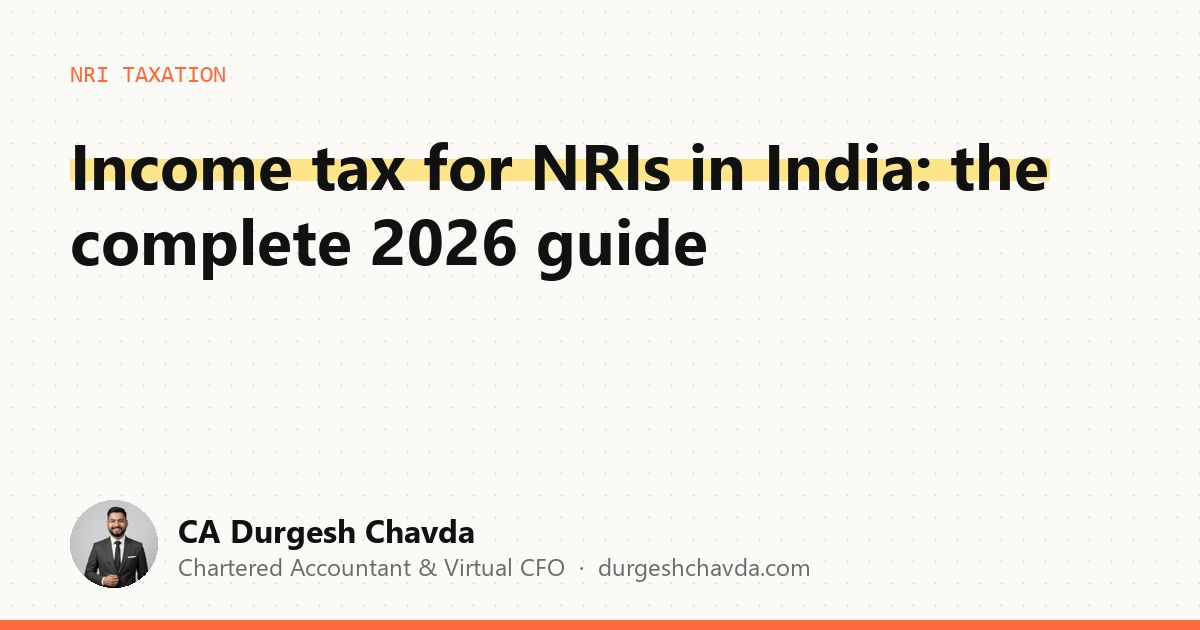
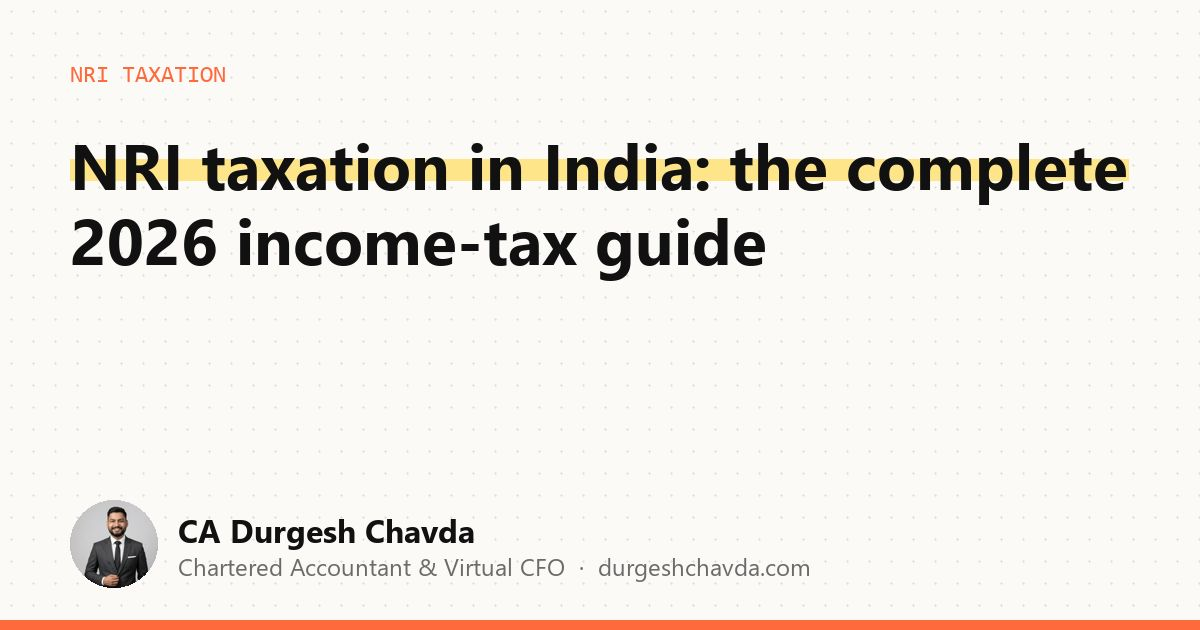
City vCFO pages deepened (month-by-month, signs, scoping); Noida added to NCR page; NRI taxation and 57th GST titles

Changed region(s): [[0.0617, 0.2111, 0.9558, 0.3317], [0.0617, 0.3317, 0.6475, 0.4524]]

diff --git a/virtual-cfo-services-gurgaon/index.html b/virtual-cfo-services-gurgaon/index.html
@@ -3,7 +3,7 @@
 <head>
 <meta charset="UTF-8"/>
 <meta name="viewport" content="width=device-width,initial-scale=1.0"/>
-<title>Virtual CFO Services in Gurgaon & Delhi NCR | Durgesh Chavda</title>
+<title>Virtual CFO Services in Gurgaon, Noida & Delhi NCR</title>
 <meta name="description" content="Virtual CFO services in Gurgaon, Delhi and Noida: monthly MIS, board packs, runway, fundraising, FEMA and GST for startups and subsidiaries of foreign groups."/>
 <meta name="robots" content="index,follow,max-image-preview:large,max-snippet:-1"/>
 <link rel="canonical" href="https://www.durgeshchavda.com/virtual-cfo-services-gurgaon/"/>
@@ -11,17 +11,17 @@
 <meta property="og:type" content="website"/>
 <meta property="og:site_name" content="Durgesh Chavda"/>
 <meta property="og:locale" content="en_IN"/>
-<meta property="og:title" content="Virtual CFO Services in Gurgaon &amp; Delhi NCR | Durgesh Chavda"/>
+<meta property="og:title" content="Virtual CFO Services in Gurgaon, Noida &amp; Delhi NCR"/>
 <meta property="og:description" content="Virtual CFO services in Gurgaon, Delhi and Noida: monthly MIS, board packs, runway, fundraising, FEMA and GST for startups and subsidiaries of foreign groups."/>
 <meta property="og:url" content="https://www.durgeshchavda.com/virtual-cfo-services-gurgaon/"/>
 <meta property="og:image" content="https://www.durgeshchavda.com/assets/og/virtual-cfo-services-gurgaon.jpg"/>
 <meta property="og:image:width" content="1200"/><meta property="og:image:height" content="630"/>
 <meta name="twitter:card" content="summary_large_image"/>
-<meta name="twitter:title" content="Virtual CFO Services in Gurgaon &amp; Delhi NCR | Durgesh Chavda"/>
+<meta name="twitter:title" content="Virtual CFO Services in Gurgaon, Noida &amp; Delhi NCR"/>
 <meta name="twitter:description" content="Virtual CFO services in Gurgaon, Delhi and Noida: monthly MIS, board packs, runway, fundraising, FEMA and GST for startups and subsidiaries of foreign groups."/>
 <meta name="twitter:image" content="https://www.durgeshchavda.com/assets/og/virtual-cfo-services-gurgaon.jpg"/>
 <link rel="alternate" type="application/rss+xml" title="Durgesh Chavda — Insights" href="https://www.durgeshchavda.com/insights/feed.xml"/>
-<!-- lastmod:2026-10-15 -->
+<!-- lastmod:2026-10-23 -->
 
 <meta name="theme-color" content="#fbfaf7"/>
 <link rel="icon" href="/favicon.svg" type="image/svg+xml"/>
@@ -48,7 +48,7 @@
     {
      "@type": "ListItem",
      "position": 2,
-     "name": "Virtual CFO in Gurgaon",
+     "name": "Virtual CFO in Gurgaon & Noida",
      "item": "https://www.durgeshchavda.com/virtual-cfo-services-gurgaon/"
     }
    ]
@@ -56,7 +56,7 @@
   {
    "@type": "Service",
    "@id": "https://www.durgeshchavda.com/virtual-cfo-services-gurgaon/#service",
-   "name": "Virtual CFO services in Gurgaon",
+   "name": "Virtual CFO services in Gurgaon, Noida and Delhi NCR",
    "serviceType": "Virtual CFO",
    "provider": {
     "@id": "https://www.durgeshchavda.com/#business"
@@ -65,11 +65,19 @@
    "areaServed": [
     {
      "@type": "City",
-     "name": "Gurgaon"
+     "name": "Gurugram"
     },
     {
-     "@type": "State",
-     "name": "Haryana"
+     "@type": "City",
+     "name": "Noida"
+    },
+    {
+     "@type": "City",
+     "name": "Greater Noida"
+    },
+    {
+     "@type": "City",
+     "name": "New Delhi"
     }
    ]
   },
@@ -98,6 +106,14 @@
      "acceptedAnswer": {
       "@type": "Answer",
       "text": "Yes — we reconcile returns and input credit for each state registration, which matters for companies operating across Haryana, Delhi and Uttar Pradesh."
+     }
+    },
+    {
+     "@type": "Question",
+     "name": "Do you provide virtual CFO services in Noida?",
+     "acceptedAnswer": {
+      "@type": "Answer",
+      "text": "Yes. We support startups, IT companies and subsidiaries in Noida and Greater Noida — monthly close, MIS, board packs, Uttar Pradesh GST alongside other NCR states, export refunds and FEMA filings — remotely, with visits when needed."
      }
     }
    ]
@@ -138,9 +154,9 @@
 <main id="main">
 <header class="phero dots">
   <div class="wrap">
-    <nav class="crumbs rv" aria-label="Breadcrumb"><a href="/">Home</a> <span>/</span> <span aria-current="page">Virtual CFO in Gurgaon</span></nav>
+    <nav class="crumbs rv" aria-label="Breadcrumb"><a href="/">Home</a> <span>/</span> <span aria-current="page">Virtual CFO in Gurgaon & Noida</span></nav>
     <div class="eyebrow rv" style="margin-top:26px"><svg><use href="#sq-sm"/></svg>Gurgaon</div>
-    <h1 class="rv">Virtual CFO services in Gurgaon &amp; Delhi NCR — <mark>CFO-grade finance, part-time</mark></h1>
+    <h1 class="rv">Virtual CFO services in Gurgaon, Noida &amp; Delhi NCR — <mark>CFO-grade finance, part-time</mark></h1>
     <p class="lead rv">Gurugram&rsquo;s SaaS, D2C, fintech and mobility founders — and the Indian arms of foreign groups across Delhi NCR — use us as their finance team: monthly close, board reporting, fundraising and compliance.</p>
     
     <div class="hero-ctas rv">
@@ -167,6 +183,24 @@
 <ul><li><strong>Multi-state GST:</strong> NCR companies often have registrations in Haryana, Delhi and Uttar Pradesh — we keep each state&rsquo;s returns and input credit reconciled.</li>
 <li><strong>Foreign-parent reporting:</strong> monthly packs mapped to US GAAP or IFRS, transfer pricing and the <a href="/insights/repatriate-profits-from-india/">repatriation</a> questions that come with them.</li></ul>
 <p>Delivery is remote-first — shared books, weekly calls and a monthly review — with visits to Gurgaon for board meetings, audits or investor diligence when needed. Our offices are in Ahmedabad, Mumbai, Bengaluru, Rajkot and Dubai.</p>
+<h2 id="month">A typical month with a virtual CFO</h2>
+<div class="tbl-wrap"><table class="tbl"><tr><th>When</th><th>What happens</th><th>What you get</th></tr>
+<tr><td>Days 1–7</td><td>Books closed, bank and payment-gateway reconciliations, accruals, GST and TDS reconciled</td><td>Clean month-end numbers</td></tr>
+<tr><td>Days 7–10</td><td>MIS pack: P&amp;L against budget, cash and runway, unit economics, receivables ageing</td><td>A one-page view of the business plus the detail</td></tr>
+<tr><td>Days 10–15</td><td>Monthly review call with the founders; decisions on hiring, pricing, spend and collections</td><td>Actions with owners and dates</td></tr>
+<tr><td>Ongoing</td><td>Compliance calendar — GST, TDS, PF, ROC and, for foreign-funded companies, RBI/FEMA filings</td><td>No missed due dates or late fees</td></tr>
+<tr><td>Quarterly</td><td>Board pack, investor update, forecast refresh, advance tax</td><td>Board-ready reporting</td></tr>
+<tr><td>As needed</td><td>Fundraising model and data room, due-diligence questions, audit support</td><td>A finance lead for the big moments</td></tr></table></div>
+<h2 id="signs">Signs a Gurgaon or Noida company needs a virtual CFO</h2>
+<ul><li>The founders can&rsquo;t say what the runway is without a day of spreadsheet work.</li>
+<li>Investors or a foreign parent are asking for monthly reporting you don&rsquo;t yet produce.</li>
+<li>A fundraise, audit or due diligence is coming in the next six months.</li>
+<li>Your accountant files returns on time but nobody owns cash, pricing or budgets.</li>
+<li>You have raised foreign money and aren&rsquo;t sure the FEMA filings are complete.</li></ul>
+<h2 id="engage">How engagements are scoped</h2>
+<p>We agree a fixed monthly scope — which reports, how often we meet, which filings we own — based on your transaction volume, number of entities and whether you report to a foreign parent. Your existing accountant can stay on for bookkeeping; we take the CFO layer. Most companies start with a one-month diagnostic of their books and reporting. Compare options: <a href="/insights/virtual-cfo-vs-full-time-cfo/">virtual CFO vs full-time CFO</a>.</p>
+<h2 id="noida">Noida and Greater Noida</h2>
+<p>Noida&rsquo;s IT and electronics-manufacturing companies, and the Indian subsidiaries based there, have needs of their own: Uttar Pradesh GST registrations alongside Haryana or Delhi, export-of-services refunds for IT and ITeS units, and — for manufacturers — inventory costing, customs and production-linked incentive claims. We cover Noida the same way as Gurugram: remote-first, with visits when needed.</p>
 <form class="enq" data-enq aria-label="Quick enquiry">
 <div class="enq-h">Tell Durgesh what you need</div>
 <p class="enq-s">Takes 30 seconds. It opens WhatsApp or your email app with the message ready — you reply to Durgesh directly.</p>
@@ -177,10 +211,10 @@
 <div class="acts"><button class="btn btn-ink" type="submit"><svg class="icon"><use href="#i-wa"/></svg> Send on WhatsApp</button><button class="btn btn-soft" type="button" data-mail><svg class="icon"><use href="#i-mail"/></svg> Send by email</button></div>
 <p class="note">Nothing is stored on this website. Please don&rsquo;t include confidential documents in the first message.</p>
 </form>
-<h2 id="faq">Frequently asked questions</h2><div class="faq"><details><summary>Do you provide virtual CFO services in Gurgaon?</summary><div class="a">Yes. We work with Gurugram, Delhi and Noida startups and subsidiaries remotely — monthly close, MIS, board packs, fundraising support and compliance — and visit for board meetings, audits or diligence when needed.</div></details><details><summary>How much does a virtual CFO cost compared with a full-time CFO in Gurgaon?</summary><div class="a">A virtual CFO is engaged for a fixed monthly scope, typically a fraction of a full-time CFO's cost; read Virtual CFO vs full-time CFO for how to decide.</div></details><details><summary>Can you handle GST registrations in more than one NCR state?</summary><div class="a">Yes — we reconcile returns and input credit for each state registration, which matters for companies operating across Haryana, Delhi and Uttar Pradesh.</div></details></div>
+<h2 id="faq">Frequently asked questions</h2><div class="faq"><details><summary>Do you provide virtual CFO services in Gurgaon?</summary><div class="a">Yes. We work with Gurugram, Delhi and Noida startups and subsidiaries remotely — monthly close, MIS, board packs, fundraising support and compliance — and visit for board meetings, audits or diligence when needed.</div></details><details><summary>How much does a virtual CFO cost compared with a full-time CFO in Gurgaon?</summary><div class="a">A virtual CFO is engaged for a fixed monthly scope, typically a fraction of a full-time CFO's cost; read Virtual CFO vs full-time CFO for how to decide.</div></details><details><summary>Can you handle GST registrations in more than one NCR state?</summary><div class="a">Yes — we reconcile returns and input credit for each state registration, which matters for companies operating across Haryana, Delhi and Uttar Pradesh.</div></details><details><summary>Do you provide virtual CFO services in Noida?</summary><div class="a">Yes. We support startups, IT companies and subsidiaries in Noida and Greater Noida — monthly close, MIS, board packs, Uttar Pradesh GST alongside other NCR states, export refunds and FEMA filings — remotely, with visits when needed.</div></details></div>
 
   </article>
-  <aside class="toc" aria-label="On this page"><div class="k">On this page</div><ol><li><a href="#what">What you get</a></li><li><a href="#who">Who it suits</a></li><li><a href="#local">Working with Gurgaon teams</a></li><li><a href="#faq">FAQ</a></li></ol>
+  <aside class="toc" aria-label="On this page"><div class="k">On this page</div><ol><li><a href="#what">What you get</a></li><li><a href="#who">Who it suits</a></li><li><a href="#local">Working with Gurgaon teams</a></li><li><a href="#month">A typical month</a></li><li><a href="#signs">Signs you need one</a></li><li><a href="#engage">How it&rsquo;s scoped</a></li><li><a href="#noida">Noida</a></li><li><a href="#faq">FAQ</a></li></ol>
 <a class="btn btn-ink btn-sm" href="https://wa.me/917801887130?text=Hi%20Durgesh%2C%20I%27m%20a%20Gurgaon%20/%20Delhi%20NCR%20founder%20looking%20for%20Virtual%20CFO%20services." target="_blank" rel="noopener"><svg class="icon"><use href="#i-wa"/></svg> Ask Durgesh</a></aside>
 </div>
 <section class="cta-band night" data-night>

diff --git a/virtual-cfo-services-bengaluru/index.html b/virtual-cfo-services-bengaluru/index.html
@@ -21,7 +21,7 @@
 <meta name="twitter:description" content="Virtual CFO services in Bengaluru for SaaS, deep-tech and fintech startups: MIS, board packs, fundraising, ESOPs, Delaware flips, FEMA and GST — CA-led."/>
 <meta name="twitter:image" content="https://www.durgeshchavda.com/assets/og/virtual-cfo-services-bengaluru.jpg"/>
 <link rel="alternate" type="application/rss+xml" title="Durgesh Chavda — Insights" href="https://www.durgeshchavda.com/insights/feed.xml"/>
-<!-- lastmod:2026-10-15 -->
+<!-- lastmod:2026-10-23 -->
 
 <meta name="theme-color" content="#fbfaf7"/>
 <link rel="icon" href="/favicon.svg" type="image/svg+xml"/>
@@ -133,6 +133,14 @@
       "@type": "Answer",
       "text": "1/2, Seegehalli Gate, Kudugodi, Whitefield, Bengaluru, Karnataka 560067."
      }
+    },
+    {
+     "@type": "Question",
+     "name": "What does a virtual CFO do each month?",
+     "acceptedAnswer": {
+      "@type": "Answer",
+      "text": "Closes the books in the first week, sends an MIS pack with cash, runway and unit economics, reviews it with the founders, and runs the compliance calendar — plus board packs each quarter."
+     }
     }
    ]
   }
@@ -201,6 +209,22 @@
 <ul><li><strong>ESOPs and cap tables:</strong> pool sizing, grant accounting and exercise tax — see <a href="/insights/esop-taxation-india/">ESOP taxation</a> and the <a href="/insights/cap-table-guide-india/">cap table guide</a>.</li>
 <li><strong>Cross-border:</strong> intercompany agreements and transfer pricing between the US parent and the Bengaluru team, plus FEMA reporting on every foreign round.</li></ul>
 <h2 id="office">Bengaluru office</h2><div class="map-card"><div><h3>Bengaluru office</h3><p>1/2, Seegehalli Gate, Kudugodi, Whitefield, Bengaluru, Karnataka 560067</p><p>+91 78018 87130 · hello@durgeshchavda.com</p></div><a class="btn btn-ink btn-sm" href="https://www.google.com/maps/search/?api=1&amp;query=Seegehalli+Gate+Kudugodi+Whitefield+Bengaluru+560067" target="_blank" rel="noopener"><svg class="icon"><use href="#i-pin"/></svg> Open in Google Maps</a></div><p>Delivery is remote-first — shared books, weekly calls and a monthly review — with visits to Bengaluru for board meetings, audits or investor diligence when needed. Our offices are in Ahmedabad, Mumbai, Bengaluru, Rajkot and Dubai.</p>
+<h2 id="month">A typical month with a virtual CFO</h2>
+<div class="tbl-wrap"><table class="tbl"><tr><th>When</th><th>What happens</th><th>What you get</th></tr>
+<tr><td>Days 1–7</td><td>Books closed, bank and payment-gateway reconciliations, accruals, GST and TDS reconciled</td><td>Clean month-end numbers</td></tr>
+<tr><td>Days 7–10</td><td>MIS pack: P&amp;L against budget, cash and runway, unit economics, receivables ageing</td><td>A one-page view of the business plus the detail</td></tr>
+<tr><td>Days 10–15</td><td>Monthly review call with the founders; decisions on hiring, pricing, spend and collections</td><td>Actions with owners and dates</td></tr>
+<tr><td>Ongoing</td><td>Compliance calendar — GST, TDS, PF, ROC and, for foreign-funded companies, RBI/FEMA filings</td><td>No missed due dates or late fees</td></tr>
+<tr><td>Quarterly</td><td>Board pack, investor update, forecast refresh, advance tax</td><td>Board-ready reporting</td></tr>
+<tr><td>As needed</td><td>Fundraising model and data room, due-diligence questions, audit support</td><td>A finance lead for the big moments</td></tr></table></div>
+<h2 id="signs">Signs a Bengaluru company needs a virtual CFO</h2>
+<ul><li>The founders can&rsquo;t say what the runway is without a day of spreadsheet work.</li>
+<li>Investors or a foreign parent are asking for monthly reporting you don&rsquo;t yet produce.</li>
+<li>A fundraise, audit or due diligence is coming in the next six months.</li>
+<li>Your accountant files returns on time but nobody owns cash, pricing or budgets.</li>
+<li>You have raised foreign money and aren&rsquo;t sure the FEMA filings are complete.</li></ul>
+<h2 id="engage">How engagements are scoped</h2>
+<p>We agree a fixed monthly scope — which reports, how often we meet, which filings we own — based on your transaction volume, number of entities and whether you report to a foreign parent. Your existing accountant can stay on for bookkeeping; we take the CFO layer. Most companies start with a one-month diagnostic of their books and reporting. Compare options: <a href="/insights/virtual-cfo-vs-full-time-cfo/">virtual CFO vs full-time CFO</a>.</p>
 <form class="enq" data-enq aria-label="Quick enquiry">
 <div class="enq-h">Tell Durgesh what you need</div>
 <p class="enq-s">Takes 30 seconds. It opens WhatsApp or your email app with the message ready — you reply to Durgesh directly.</p>
@@ -211,10 +235,10 @@
 <div class="acts"><button class="btn btn-ink" type="submit"><svg class="icon"><use href="#i-wa"/></svg> Send on WhatsApp</button><button class="btn btn-soft" type="button" data-mail><svg class="icon"><use href="#i-mail"/></svg> Send by email</button></div>
 <p class="note">Nothing is stored on this website. Please don&rsquo;t include confidential documents in the first message.</p>
 </form>
-<h2 id="faq">Frequently asked questions</h2><div class="faq"><details><summary>Do you provide virtual CFO services in Bangalore?</summary><div class="a">Yes. We work with Bengaluru startups remotely — monthly close, MIS, board packs, fundraising and compliance — and visit for board meetings, audits or diligence when needed.</div></details><details><summary>Can a virtual CFO help with a Delaware flip or reverse flip?</summary><div class="a">Yes — structuring, valuations, FEMA filings and tax analysis for India-to-US flips and US-to-India reverse flips are a core part of our work.</div></details><details><summary>Do you manage ESOPs for Bengaluru startups?</summary><div class="a">Yes — scheme design inputs, grant accounting, perquisite tax on exercise and keeping the cap table reconciled with filings.</div></details><details><summary>Where is your Bengaluru office?</summary><div class="a">1/2, Seegehalli Gate, Kudugodi, Whitefield, Bengaluru, Karnataka 560067.</div></details></div>
+<h2 id="faq">Frequently asked questions</h2><div class="faq"><details><summary>Do you provide virtual CFO services in Bangalore?</summary><div class="a">Yes. We work with Bengaluru startups remotely — monthly close, MIS, board packs, fundraising and compliance — and visit for board meetings, audits or diligence when needed.</div></details><details><summary>Can a virtual CFO help with a Delaware flip or reverse flip?</summary><div class="a">Yes — structuring, valuations, FEMA filings and tax analysis for India-to-US flips and US-to-India reverse flips are a core part of our work.</div></details><details><summary>Do you manage ESOPs for Bengaluru startups?</summary><div class="a">Yes — scheme design inputs, grant accounting, perquisite tax on exercise and keeping the cap table reconciled with filings.</div></details><details><summary>Where is your Bengaluru office?</summary><div class="a">1/2, Seegehalli Gate, Kudugodi, Whitefield, Bengaluru, Karnataka 560067.</div></details><details><summary>What does a virtual CFO do each month?</summary><div class="a">Closes the books in the first week, sends an MIS pack with cash, runway and unit economics, reviews it with the founders, and runs the compliance calendar — plus board packs each quarter.</div></details></div>
 
   </article>
-  <aside class="toc" aria-label="On this page"><div class="k">On this page</div><ol><li><a href="#what">What you get</a></li><li><a href="#who">Who it suits</a></li><li><a href="#local">Working with Bengaluru teams</a></li><li><a href="#office">Bengaluru office</a></li><li><a href="#faq">FAQ</a></li></ol>
+  <aside class="toc" aria-label="On this page"><div class="k">On this page</div><ol><li><a href="#what">What you get</a></li><li><a href="#who">Who it suits</a></li><li><a href="#local">Working with Bengaluru teams</a></li><li><a href="#office">Bengaluru office</a></li><li><a href="#month">A typical month</a></li><li><a href="#signs">Signs you need one</a></li><li><a href="#engage">How it&rsquo;s scoped</a></li><li><a href="#faq">FAQ</a></li></ol>
 <a class="btn btn-ink btn-sm" href="https://wa.me/917801887130?text=Hi%20Durgesh%2C%20I%27m%20a%20Bengaluru%20founder%20looking%20for%20Virtual%20CFO%20services." target="_blank" rel="noopener"><svg class="icon"><use href="#i-wa"/></svg> Ask Durgesh</a></aside>
 </div>
 <section class="cta-band night" data-night>

diff --git a/virtual-cfo-services-mumbai/index.html b/virtual-cfo-services-mumbai/index.html
@@ -21,7 +21,7 @@
 <meta name="twitter:description" content="Virtual CFO services in Mumbai: monthly MIS, board packs, runway, fundraising and FEMA compliance for startups — CA-led, with an office in Borivali East."/>
 <meta name="twitter:image" content="https://www.durgeshchavda.com/assets/og/virtual-cfo-services-mumbai.jpg"/>
 <link rel="alternate" type="application/rss+xml" title="Durgesh Chavda — Insights" href="https://www.durgeshchavda.com/insights/feed.xml"/>
-<!-- lastmod:2026-10-06 -->
+<!-- lastmod:2026-10-23 -->
 
 <meta name="theme-color" content="#fbfaf7"/>
 <link rel="icon" href="/favicon.svg" type="image/svg+xml"/>
@@ -117,6 +117,14 @@
       "@type": "Answer",
       "text": "Yes — FEMA valuations, FC-GPR within 30 days, FC-TRS and the annual FLA return are part of the work."
      }
+    },
+    {
+     "@type": "Question",
+     "name": "What does a virtual CFO do each month?",
+     "acceptedAnswer": {
+      "@type": "Answer",
+      "text": "Closes the books in the first week, produces an MIS pack with cash and runway, reviews it with the founders, and keeps GST, TDS, ROC and FEMA filings on time — with quarterly board packs."
+     }
     }
    ]
   }
@@ -186,6 +194,22 @@
 <h2 id="areas">Areas we cover in Mumbai</h2><p>From our Borivali East office we work with founders across Mumbai and the MMR — Andheri, Powai, BKC, Lower Parel, Malad, Goregaon, Thane and Navi Mumbai — remotely day to day, in person when it matters.</p><h2 id="office">Mumbai office</h2>
 <div class="map-card"><div><h3>Mumbai office</h3><p>Shiv Hara Building, B/301, Carter Road No. 2, opp. Municipal Hospital, Mhatre Wadi, Borivali East, Mumbai, Maharashtra 400066</p><p>+91 78018 87130 · hello@durgeshchavda.com</p></div>
 <a class="btn btn-ink btn-sm" href="https://www.google.com/maps/search/?api=1&amp;query=Shiv+Hara+Building+Carter+Road+2+Borivali+East+Mumbai+400066" target="_blank" rel="noopener"><svg class="icon"><use href="#i-pin"/></svg> Open in Google Maps</a></div>
+<h2 id="month">A typical month with a virtual CFO</h2>
+<div class="tbl-wrap"><table class="tbl"><tr><th>When</th><th>What happens</th><th>What you get</th></tr>
+<tr><td>Days 1–7</td><td>Books closed, bank and payment-gateway reconciliations, accruals, GST and TDS reconciled</td><td>Clean month-end numbers</td></tr>
+<tr><td>Days 7–10</td><td>MIS pack: P&amp;L against budget, cash and runway, unit economics, receivables ageing</td><td>A one-page view of the business plus the detail</td></tr>
+<tr><td>Days 10–15</td><td>Monthly review call with the founders; decisions on hiring, pricing, spend and collections</td><td>Actions with owners and dates</td></tr>
+<tr><td>Ongoing</td><td>Compliance calendar — GST, TDS, PF, ROC and, for foreign-funded companies, RBI/FEMA filings</td><td>No missed due dates or late fees</td></tr>
+<tr><td>Quarterly</td><td>Board pack, investor update, forecast refresh, advance tax</td><td>Board-ready reporting</td></tr>
+<tr><td>As needed</td><td>Fundraising model and data room, due-diligence questions, audit support</td><td>A finance lead for the big moments</td></tr></table></div>
+<h2 id="signs">Signs a Mumbai company needs a virtual CFO</h2>
+<ul><li>The founders can&rsquo;t say what the runway is without a day of spreadsheet work.</li>
+<li>Investors or a foreign parent are asking for monthly reporting you don&rsquo;t yet produce.</li>
+<li>A fundraise, audit or due diligence is coming in the next six months.</li>
+<li>Your accountant files returns on time but nobody owns cash, pricing or budgets.</li>
+<li>You have raised foreign money and aren&rsquo;t sure the FEMA filings are complete.</li></ul>
+<h2 id="engage">How engagements are scoped</h2>
+<p>We agree a fixed monthly scope — which reports, how often we meet, which filings we own — based on your transaction volume, number of entities and whether you report to a foreign parent. Your existing accountant can stay on for bookkeeping; we take the CFO layer. Most companies start with a one-month diagnostic of their books and reporting. Compare options: <a href="/insights/virtual-cfo-vs-full-time-cfo/">virtual CFO vs full-time CFO</a>.</p>
 <form class="enq" data-enq aria-label="Quick enquiry">
 <div class="enq-h">Tell Durgesh what you need</div>
 <p class="enq-s">Takes 30 seconds. It opens WhatsApp or your email app with the message ready — you reply to Durgesh directly.</p>
@@ -197,10 +221,10 @@
 <p class="note">Nothing is stored on this website. Please don&rsquo;t include confidential documents in the first message.</p>
 </form>
 <div class="proof"><div><b>USD 3.75M</b><span>Pre-Series A led and closed end-to-end for an AI EdTech startup</span></div><div><b>5+ years</b><span>across audit, tax, FEMA and startup finance</span></div><div><b>₹5,000 Cr+</b><span>PSU bank audit portfolio handled early in career</span></div></div>
-<h2 id="faq">Frequently asked questions</h2><div class="faq"><details><summary>What does a Virtual CFO do for a Mumbai startup?</summary><div class="a">Owns the finance function part-time: monthly close and MIS, board packs, runway and budgets, unit economics, fundraising support and oversight of GST, TDS, ROC and FEMA compliance.</div></details><details><summary>Where is your Mumbai office?</summary><div class="a">Shiv Hara Building, B/301, Carter Road No. 2, opp. Municipal Hospital, Mhatre Wadi, Borivali East, Mumbai 400066.</div></details><details><summary>Do you work with Mumbai startups that have foreign investors?</summary><div class="a">Yes — FEMA valuations, FC-GPR within 30 days, FC-TRS and the annual FLA return are part of the work.</div></details></div>
+<h2 id="faq">Frequently asked questions</h2><div class="faq"><details><summary>What does a Virtual CFO do for a Mumbai startup?</summary><div class="a">Owns the finance function part-time: monthly close and MIS, board packs, runway and budgets, unit economics, fundraising support and oversight of GST, TDS, ROC and FEMA compliance.</div></details><details><summary>Where is your Mumbai office?</summary><div class="a">Shiv Hara Building, B/301, Carter Road No. 2, opp. Municipal Hospital, Mhatre Wadi, Borivali East, Mumbai 400066.</div></details><details><summary>Do you work with Mumbai startups that have foreign investors?</summary><div class="a">Yes — FEMA valuations, FC-GPR within 30 days, FC-TRS and the annual FLA return are part of the work.</div></details><details><summary>What does a virtual CFO do each month?</summary><div class="a">Closes the books in the first week, produces an MIS pack with cash and runway, reviews it with the founders, and keeps GST, TDS, ROC and FEMA filings on time — with quarterly board packs.</div></details></div>
 
   </article>
-  <aside class="toc" aria-label="On this page"><div class="k">On this page</div><ol><li><a href="#what">What you get</a></li><li><a href="#who">Who it suits</a></li><li><a href="#office">Mumbai office</a></li><li><a href="#faq">FAQ</a></li></ol>
+  <aside class="toc" aria-label="On this page"><div class="k">On this page</div><ol><li><a href="#what">What you get</a></li><li><a href="#who">Who it suits</a></li><li><a href="#office">Mumbai office</a></li><li><a href="#month">A typical month</a></li><li><a href="#signs">Signs you need one</a></li><li><a href="#engage">How it&rsquo;s scoped</a></li><li><a href="#faq">FAQ</a></li></ol>
 <a class="btn btn-ink btn-sm" href="https://wa.me/917801887130?text=Hi%20Durgesh%2C%20I%27m%20a%20Mumbai-based%20founder%20looking%20for%20Virtual%20CFO%20services." target="_blank" rel="noopener"><svg class="icon"><use href="#i-wa"/></svg> Ask Durgesh</a></aside>
 </div>
 <section class="cta-band night" data-night>

diff --git a/virtual-cfo-services-hyderabad/index.html b/virtual-cfo-services-hyderabad/index.html
@@ -21,7 +21,7 @@
 <meta name="twitter:description" content="Virtual CFO services in Hyderabad for startups and global capability centres: MIS, board packs, fundraising, transfer pricing, FEMA and GST — CA-led."/>
 <meta name="twitter:image" content="https://www.durgeshchavda.com/assets/og/virtual-cfo-services-hyderabad.jpg"/>
 <link rel="alternate" type="application/rss+xml" title="Durgesh Chavda — Insights" href="https://www.durgeshchavda.com/insights/feed.xml"/>
-<!-- lastmod:2026-10-15 -->
+<!-- lastmod:2026-10-23 -->
 
 <meta name="theme-color" content="#fbfaf7"/>
 <link rel="icon" href="/favicon.svg" type="image/svg+xml"/>
@@ -99,6 +99,14 @@
       "@type": "Answer",
       "text": "Yes — financial models, data rooms, due-diligence support and the FEMA filings after a foreign round."
      }
+    },
+    {
+     "@type": "Question",
+     "name": "What does a virtual CFO do each month?",
+     "acceptedAnswer": {
+      "@type": "Answer",
+      "text": "Closes the books and reconciles them in the first week, sends an MIS pack with cash and runway by day 10, reviews it with the founders, and keeps GST, TDS, ROC and FEMA filings on schedule."
+     }
     }
    ]
   }
@@ -167,6 +175,22 @@
 <ul><li><strong>GCC finance:</strong> cost-base tracking, intercompany invoicing at cost plus markup, <a href="/insights/india-us-transfer-pricing/">transfer-pricing</a> documentation and GST refunds on exported services.</li>
 <li><strong>Startup finance:</strong> grant and investor reporting, ESOP accounting and the FEMA filings that come with foreign rounds.</li></ul>
 <p>Delivery is remote-first — shared books, weekly calls and a monthly review — with visits to Hyderabad for board meetings, audits or investor diligence when needed. Our offices are in Ahmedabad, Mumbai, Bengaluru, Rajkot and Dubai.</p>
+<h2 id="month">A typical month with a virtual CFO</h2>
+<div class="tbl-wrap"><table class="tbl"><tr><th>When</th><th>What happens</th><th>What you get</th></tr>
+<tr><td>Days 1–7</td><td>Books closed, bank and payment-gateway reconciliations, accruals, GST and TDS reconciled</td><td>Clean month-end numbers</td></tr>
+<tr><td>Days 7–10</td><td>MIS pack: P&amp;L against budget, cash and runway, unit economics, receivables ageing</td><td>A one-page view of the business plus the detail</td></tr>
+<tr><td>Days 10–15</td><td>Monthly review call with the founders; decisions on hiring, pricing, spend and collections</td><td>Actions with owners and dates</td></tr>
+<tr><td>Ongoing</td><td>Compliance calendar — GST, TDS, PF, ROC and, for foreign-funded companies, RBI/FEMA filings</td><td>No missed due dates or late fees</td></tr>
+<tr><td>Quarterly</td><td>Board pack, investor update, forecast refresh, advance tax</td><td>Board-ready reporting</td></tr>
+<tr><td>As needed</td><td>Fundraising model and data room, due-diligence questions, audit support</td><td>A finance lead for the big moments</td></tr></table></div>
+<h2 id="signs">Signs a Hyderabad company needs a virtual CFO</h2>
+<ul><li>The founders can&rsquo;t say what the runway is without a day of spreadsheet work.</li>
+<li>Investors or a foreign parent are asking for monthly reporting you don&rsquo;t yet produce.</li>
+<li>A fundraise, audit or due diligence is coming in the next six months.</li>
+<li>Your accountant files returns on time but nobody owns cash, pricing or budgets.</li>
+<li>You have raised foreign money and aren&rsquo;t sure the FEMA filings are complete.</li></ul>
+<h2 id="engage">How engagements are scoped</h2>
+<p>We agree a fixed monthly scope — which reports, how often we meet, which filings we own — based on your transaction volume, number of entities and whether you report to a foreign parent. Your existing accountant can stay on for bookkeeping; we take the CFO layer. Most companies start with a one-month diagnostic of their books and reporting. Compare options: <a href="/insights/virtual-cfo-vs-full-time-cfo/">virtual CFO vs full-time CFO</a>.</p>
 <form class="enq" data-enq aria-label="Quick enquiry">
 <div class="enq-h">Tell Durgesh what you need</div>
 <p class="enq-s">Takes 30 seconds. It opens WhatsApp or your email app with the message ready — you reply to Durgesh directly.</p>
@@ -177,10 +201,10 @@
 <div class="acts"><button class="btn btn-ink" type="submit"><svg class="icon"><use href="#i-wa"/></svg> Send on WhatsApp</button><button class="btn btn-soft" type="button" data-mail><svg class="icon"><use href="#i-mail"/></svg> Send by email</button></div>
 <p class="note">Nothing is stored on this website. Please don&rsquo;t include confidential documents in the first message.</p>
 </form>
-<h2 id="faq">Frequently asked questions</h2><div class="faq"><details><summary>Do you provide virtual CFO services in Hyderabad?</summary><div class="a">Yes. We work with Hyderabad startups and capability centres remotely, with visits for board meetings, audits or diligence when needed.</div></details><details><summary>Can a virtual CFO support a GCC in Hyderabad?</summary><div class="a">Yes — monthly close, cost-plus intercompany billing, transfer-pricing documentation, GST refunds on exported services and reporting to the foreign parent.</div></details><details><summary>Do you help Hyderabad startups raise funding?</summary><div class="a">Yes — financial models, data rooms, due-diligence support and the FEMA filings after a foreign round.</div></details></div>
+<h2 id="faq">Frequently asked questions</h2><div class="faq"><details><summary>Do you provide virtual CFO services in Hyderabad?</summary><div class="a">Yes. We work with Hyderabad startups and capability centres remotely, with visits for board meetings, audits or diligence when needed.</div></details><details><summary>Can a virtual CFO support a GCC in Hyderabad?</summary><div class="a">Yes — monthly close, cost-plus intercompany billing, transfer-pricing documentation, GST refunds on exported services and reporting to the foreign parent.</div></details><details><summary>Do you help Hyderabad startups raise funding?</summary><div class="a">Yes — financial models, data rooms, due-diligence support and the FEMA filings after a foreign round.</div></details><details><summary>What does a virtual CFO do each month?</summary><div class="a">Closes the books and reconciles them in the first week, sends an MIS pack with cash and runway by day 10, reviews it with the founders, and keeps GST, TDS, ROC and FEMA filings on schedule.</div></details></div>
 
   </article>
-  <aside class="toc" aria-label="On this page"><div class="k">On this page</div><ol><li><a href="#what">What you get</a></li><li><a href="#who">Who it suits</a></li><li><a href="#local">Working with Hyderabad teams</a></li><li><a href="#faq">FAQ</a></li></ol>
+  <aside class="toc" aria-label="On this page"><div class="k">On this page</div><ol><li><a href="#what">What you get</a></li><li><a href="#who">Who it suits</a></li><li><a href="#local">Working with Hyderabad teams</a></li><li><a href="#month">A typical month</a></li><li><a href="#signs">Signs you need one</a></li><li><a href="#engage">How it&rsquo;s scoped</a></li><li><a href="#faq">FAQ</a></li></ol>
 <a class="btn btn-ink btn-sm" href="https://wa.me/917801887130?text=Hi%20Durgesh%2C%20I%27m%20based%20in%20Hyderabad%20and%20looking%20for%20Virtual%20CFO%20services." target="_blank" rel="noopener"><svg class="icon"><use href="#i-wa"/></svg> Ask Durgesh</a></aside>
 </div>
 <section class="cta-band night" data-night>

diff --git a/insights/nri-taxation-guide/index.html b/insights/nri-taxation-guide/index.html
@@ -3,7 +3,7 @@
 <head>
 <meta charset="UTF-8"/>
 <meta name="viewport" content="width=device-width,initial-scale=1.0"/>
-<title>Income Tax for NRI in India 2026: Slabs, TDS, DTAA Guide</title>
+<title>NRI Taxation in India 2026: Income Tax Slabs, TDS & DTAA</title>
 <meta name="description" content="Income tax for NRIs in India, 2026-27: NRI tax slabs (no ₹12 lakh rebate), what&#x27;s taxable, capital gains, TDS, DTAA relief, returns and repatriation."/>
 <meta name="robots" content="index,follow,max-image-preview:large,max-snippet:-1"/>
 <link rel="canonical" href="https://www.durgeshchavda.com/insights/nri-taxation-guide/"/>
@@ -11,13 +11,13 @@
 <meta property="og:type" content="article"/>
 <meta property="og:site_name" content="Durgesh Chavda"/>
 <meta property="og:locale" content="en_IN"/>
-<meta property="og:title" content="Income Tax for NRI in India 2026: Slabs, TDS, DTAA Guide"/>
+<meta property="og:title" content="NRI Taxation in India 2026: Income Tax Slabs, TDS &amp; DTAA"/>
 <meta property="og:description" content="Income tax for NRIs in India, 2026-27: NRI tax slabs (no ₹12 lakh rebate), what&#x27;s taxable, capital gains, TDS, DTAA relief, returns and repatriation."/>
 <meta property="og:url" content="https://www.durgeshchavda.com/insights/nri-taxation-guide/"/>
 <meta property="og:image" content="https://www.durgeshchavda.com/assets/og/insights-nri-taxation-guide.jpg"/>
 <meta property="og:image:width" content="1200"/><meta property="og:image:height" content="630"/>
 <meta name="twitter:card" content="summary_large_image"/>
-<meta name="twitter:title" content="Income Tax for NRI in India 2026: Slabs, TDS, DTAA Guide"/>
+<meta name="twitter:title" content="NRI Taxation in India 2026: Income Tax Slabs, TDS &amp; DTAA"/>
 <meta name="twitter:description" content="Income tax for NRIs in India, 2026-27: NRI tax slabs (no ₹12 lakh rebate), what&#x27;s taxable, capital gains, TDS, DTAA relief, returns and repatriation."/>
 <meta name="twitter:image" content="https://www.durgeshchavda.com/assets/og/insights-nri-taxation-guide.jpg"/>
 <link rel="alternate" type="application/rss+xml" title="Durgesh Chavda — Insights" href="https://www.durgeshchavda.com/insights/feed.xml"/>
@@ -62,7 +62,7 @@
   {
    "@type": "BlogPosting",
    "@id": "https://www.durgeshchavda.com/insights/nri-taxation-guide/#article",
-   "headline": "Income tax for NRIs in India: the complete 2026 guide",
+   "headline": "NRI taxation in India: the complete 2026 income-tax guide",
    "description": "Income tax for NRIs in India, 2026-27: NRI tax slabs (no ₹12 lakh rebate), what's taxable, capital gains, TDS, DTAA relief, returns and repatriation.",
    "url": "https://www.durgeshchavda.com/insights/nri-taxation-guide/",
    "mainEntityOfPage": "https://www.durgeshchavda.com/insights/nri-taxation-guide/",
@@ -195,7 +195,7 @@
   <div class="wrap">
     <nav class="crumbs rv" aria-label="Breadcrumb"><a href="/">Home</a> <span>/</span> <a href="/insights/">Insights</a> <span>/</span> <span aria-current="page">NRI taxation guide</span></nav>
     <div class="eyebrow rv" style="margin-top:26px"><svg><use href="#sq-sm"/></svg>NRI taxation</div>
-    <h1 class="rv">Income tax for NRIs in India: <mark>the complete 2026 guide</mark></h1>
+    <h1 class="rv">NRI taxation in India: <mark>the complete 2026 income-tax guide</mark></h1>
     <p class="lead rv">Everything a non-resident Indian needs to know about Indian tax in one place — what&rsquo;s taxed, at what rate, why TDS usually over-deducts, how treaties help, and how to get money back out.</p>
     <div class="byline"><picture><source type="image/webp" srcset="/assets/durgesh-thumb-144.webp"/><img src="/assets/durgesh-thumb-144.jpg" alt="" width="34" height="34"/></picture><span>By <a href="/about/" rel="author" style="color:var(--ink)">CA Durgesh Chavda</a></span><span>·</span><span>Last reviewed <time datetime="2026-10-15">15 October 2026</time></span><span>·</span><span>11 min read</span></div>
     <div class="hero-ctas rv">

diff --git a/insights/57th-gst-council-meeting-decisions/index.html b/insights/57th-gst-council-meeting-decisions/index.html
@@ -3,7 +3,7 @@
 <head>
 <meta charset="UTF-8"/>
 <meta name="viewport" content="width=device-width,initial-scale=1.0"/>
-<title>57th GST Council Meeting (8 Oct 2026): Key Decisions</title>
+<title>57th GST Council Meeting: Decisions & Status (Oct 2026)</title>
 <meta name="description" content="57th GST Council decisions: no rate changes, arrest power to go, prosecution threshold ₹5 crore, ITC on health insurance, refund and registration relief."/>
 <meta name="robots" content="index,follow,max-image-preview:large,max-snippet:-1"/>
 <link rel="canonical" href="https://www.durgeshchavda.com/insights/57th-gst-council-meeting-decisions/"/>
@@ -11,13 +11,13 @@
 <meta property="og:type" content="article"/>
 <meta property="og:site_name" content="Durgesh Chavda"/>
 <meta property="og:locale" content="en_IN"/>
-<meta property="og:title" content="57th GST Council Meeting (8 Oct 2026): Key Decisions"/>
+<meta property="og:title" content="57th GST Council Meeting: Decisions &amp; Status (Oct 2026)"/>
 <meta property="og:description" content="57th GST Council decisions: no rate changes, arrest power to go, prosecution threshold ₹5 crore, ITC on health insurance, refund and registration relief."/>
 <meta property="og:url" content="https://www.durgeshchavda.com/insights/57th-gst-council-meeting-decisions/"/>
 <meta property="og:image" content="https://www.durgeshchavda.com/assets/og/insights-57th-gst-council-meeting-decisions.jpg"/>
 <meta property="og:image:width" content="1200"/><meta property="og:image:height" content="630"/>
 <meta name="twitter:card" content="summary_large_image"/>
-<meta name="twitter:title" content="57th GST Council Meeting (8 Oct 2026): Key Decisions"/>
+<meta name="twitter:title" content="57th GST Council Meeting: Decisions &amp; Status (Oct 2026)"/>
 <meta name="twitter:description" content="57th GST Council decisions: no rate changes, arrest power to go, prosecution threshold ₹5 crore, ITC on health insurance, refund and registration relief."/>
 <meta name="twitter:image" content="https://www.durgeshchavda.com/assets/og/insights-57th-gst-council-meeting-decisions.jpg"/>
 <link rel="alternate" type="application/rss+xml" title="Durgesh Chavda — Insights" href="https://www.durgeshchavda.com/insights/feed.xml"/>
